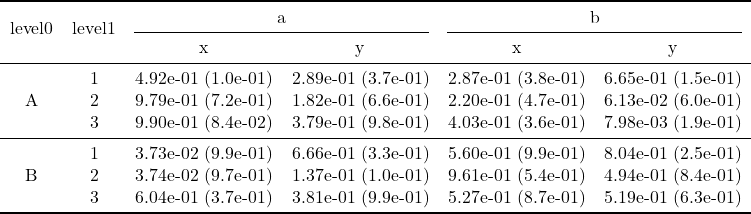
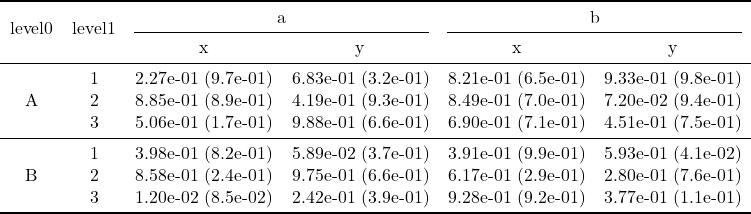
build based on 4c8c40d

diff --git a/dev/index.html b/dev/index.html
@@ -1,2 +1,2 @@
 <!DOCTYPE html>
-<html lang="en"><head><meta charset="UTF-8"/><meta name="viewport" content="width=device-width, initial-scale=1.0"/><title>LaTeXTables.jl Documentation · LaTeXTables.jl Documentation</title><script data-outdated-warner src="assets/warner.js"></script><link href="https://cdnjs.cloudflare.com/ajax/libs/lato-font/3.0.0/css/lato-font.min.css" rel="stylesheet" type="text/css"/><link href="https://cdnjs.cloudflare.com/ajax/libs/juliamono/0.045/juliamono.min.css" rel="stylesheet" type="text/css"/><link href="https://cdnjs.cloudflare.com/ajax/libs/font-awesome/5.15.4/css/fontawesome.min.css" rel="stylesheet" type="text/css"/><link href="https://cdnjs.cloudflare.com/ajax/libs/font-awesome/5.15.4/css/solid.min.css" rel="stylesheet" type="text/css"/><link href="https://cdnjs.cloudflare.com/ajax/libs/font-awesome/5.15.4/css/brands.min.css" rel="stylesheet" type="text/css"/><link href="https://cdnjs.cloudflare.com/ajax/libs/KaTeX/0.13.24/katex.min.css" rel="stylesheet" type="text/css"/><script>documenterBaseURL="."</script><script src="https://cdnjs.cloudflare.com/ajax/libs/require.js/2.3.6/require.min.js" data-main="assets/documenter.js"></script><script src="siteinfo.js"></script><script src="../versions.js"></script><link class="docs-theme-link" rel="stylesheet" type="text/css" href="assets/themes/documenter-dark.css" data-theme-name="documenter-dark" data-theme-primary-dark/><link class="docs-theme-link" rel="stylesheet" type="text/css" href="assets/themes/documenter-light.css" data-theme-name="documenter-light" data-theme-primary/><script src="assets/themeswap.js"></script></head><body><div id="documenter"><nav class="docs-sidebar"><div class="docs-package-name"><span class="docs-autofit"><a href>LaTeXTables.jl Documentation</a></span></div><form class="docs-search" action="search/"><input class="docs-search-query" id="documenter-search-query" name="q" type="text" placeholder="Search docs"/></form><ul class="docs-menu"><li class="is-active"><a class="tocitem" href>LaTeXTables.jl Documentation</a><ul class="internal"><li><a class="tocitem" href="#Related-Packages"><span>Related Packages</span></a></li></ul></li><li><a class="tocitem" href="api/">API</a></li><li><a class="tocitem" href="example/">Examples</a></li></ul><div class="docs-version-selector field has-addons"><div class="control"><span class="docs-label button is-static is-size-7">Version</span></div><div class="docs-selector control is-expanded"><div class="select is-fullwidth is-size-7"><select id="documenter-version-selector"></select></div></div></div></nav><div class="docs-main"><header class="docs-navbar"><nav class="breadcrumb"><ul class="is-hidden-mobile"><li class="is-active"><a href>LaTeXTables.jl Documentation</a></li></ul><ul class="is-hidden-tablet"><li class="is-active"><a href>LaTeXTables.jl Documentation</a></li></ul></nav><div class="docs-right"><a class="docs-edit-link" href="https://github.com/szcf-weiya/LaTeXTables.jl/blob/master/docs/src/index.md" title="Edit on GitHub"><span class="docs-icon fab"></span><span class="docs-label is-hidden-touch">Edit on GitHub</span></a><a class="docs-settings-button fas fa-cog" id="documenter-settings-button" href="#" title="Settings"></a><a class="docs-sidebar-button fa fa-bars is-hidden-desktop" id="documenter-sidebar-button" href="#"></a></div></header><article class="content" id="documenter-page"><h1 id="LaTeXTables.jl-Documentation"><a class="docs-heading-anchor" href="#LaTeXTables.jl-Documentation">LaTeXTables.jl Documentation</a><a id="LaTeXTables.jl-Documentation-1"></a><a class="docs-heading-anchor-permalink" href="#LaTeXTables.jl-Documentation" title="Permalink"></a></h1><p>LaTeXTables.jl is a Julia package that coverts (complex) tables into LaTeX code.</p><h2 id="Related-Packages"><a class="docs-heading-anchor" href="#Related-Packages">Related Packages</a><a id="Related-Packages-1"></a><a class="docs-heading-anchor-permalink" href="#Related-Packages" title="Permalink"></a></h2><ul><li><a href="https://github.com/scheinerman/LatexPrint.jl">https://github.com/scheinerman/LatexPrint.jl</a>: only support basic data structure, such as 1d or 2d arrays</li><li><a href="https://github.com/ronisbr/PrettyTables.jl">https://github.com/ronisbr/PrettyTables.jl</a>: only support simple tables, i.e., one level row and one level column</li></ul></article><nav class="docs-footer"><a class="docs-footer-nextpage" href="api/">API »</a><div class="flexbox-break"></div><p class="footer-message">Powered by <a href="https://github.com/JuliaDocs/Documenter.jl">Documenter.jl</a> and the <a href="https://julialang.org/">Julia Programming Language</a>.</p></nav></div><div class="modal" id="documenter-settings"><div class="modal-background"></div><div class="modal-card"><header class="modal-card-head"><p class="modal-card-title">Settings</p><button class="delete"></button></header><section class="modal-card-body"><p><label class="label">Theme</label><div class="select"><select id="documenter-themepicker"><option value="documenter-light">documenter-light</option><option value="documenter-dark">documenter-dark</option></select></div></p><hr/><p>This document was generated with <a href="https://github.com/JuliaDocs/Documenter.jl">Documenter.jl</a> version 0.27.23 on <span class="colophon-date" title="Thursday 17 November 2022 04:38">Thursday 17 November 2022</span>. Using Julia version 1.7.3.</p></section><footer class="modal-card-foot"></footer></div></div></div></body></html>
+<html lang="en"><head><meta charset="UTF-8"/><meta name="viewport" content="width=device-width, initial-scale=1.0"/><title>LaTeXTables.jl Documentation · LaTeXTables.jl Documentation</title><script data-outdated-warner src="assets/warner.js"></script><link href="https://cdnjs.cloudflare.com/ajax/libs/lato-font/3.0.0/css/lato-font.min.css" rel="stylesheet" type="text/css"/><link href="https://cdnjs.cloudflare.com/ajax/libs/juliamono/0.045/juliamono.min.css" rel="stylesheet" type="text/css"/><link href="https://cdnjs.cloudflare.com/ajax/libs/font-awesome/5.15.4/css/fontawesome.min.css" rel="stylesheet" type="text/css"/><link href="https://cdnjs.cloudflare.com/ajax/libs/font-awesome/5.15.4/css/solid.min.css" rel="stylesheet" type="text/css"/><link href="https://cdnjs.cloudflare.com/ajax/libs/font-awesome/5.15.4/css/brands.min.css" rel="stylesheet" type="text/css"/><link href="https://cdnjs.cloudflare.com/ajax/libs/KaTeX/0.13.24/katex.min.css" rel="stylesheet" type="text/css"/><script>documenterBaseURL="."</script><script src="https://cdnjs.cloudflare.com/ajax/libs/require.js/2.3.6/require.min.js" data-main="assets/documenter.js"></script><script src="siteinfo.js"></script><script src="../versions.js"></script><link class="docs-theme-link" rel="stylesheet" type="text/css" href="assets/themes/documenter-dark.css" data-theme-name="documenter-dark" data-theme-primary-dark/><link class="docs-theme-link" rel="stylesheet" type="text/css" href="assets/themes/documenter-light.css" data-theme-name="documenter-light" data-theme-primary/><script src="assets/themeswap.js"></script></head><body><div id="documenter"><nav class="docs-sidebar"><div class="docs-package-name"><span class="docs-autofit"><a href>LaTeXTables.jl Documentation</a></span></div><form class="docs-search" action="search/"><input class="docs-search-query" id="documenter-search-query" name="q" type="text" placeholder="Search docs"/></form><ul class="docs-menu"><li class="is-active"><a class="tocitem" href>LaTeXTables.jl Documentation</a><ul class="internal"><li><a class="tocitem" href="#Related-Packages"><span>Related Packages</span></a></li></ul></li><li><a class="tocitem" href="api/">API</a></li><li><a class="tocitem" href="example/">Examples</a></li></ul><div class="docs-version-selector field has-addons"><div class="control"><span class="docs-label button is-static is-size-7">Version</span></div><div class="docs-selector control is-expanded"><div class="select is-fullwidth is-size-7"><select id="documenter-version-selector"></select></div></div></div></nav><div class="docs-main"><header class="docs-navbar"><nav class="breadcrumb"><ul class="is-hidden-mobile"><li class="is-active"><a href>LaTeXTables.jl Documentation</a></li></ul><ul class="is-hidden-tablet"><li class="is-active"><a href>LaTeXTables.jl Documentation</a></li></ul></nav><div class="docs-right"><a class="docs-edit-link" href="https://github.com/szcf-weiya/LaTeXTables.jl/blob/master/docs/src/index.md" title="Edit on GitHub"><span class="docs-icon fab"></span><span class="docs-label is-hidden-touch">Edit on GitHub</span></a><a class="docs-settings-button fas fa-cog" id="documenter-settings-button" href="#" title="Settings"></a><a class="docs-sidebar-button fa fa-bars is-hidden-desktop" id="documenter-sidebar-button" href="#"></a></div></header><article class="content" id="documenter-page"><h1 id="LaTeXTables.jl-Documentation"><a class="docs-heading-anchor" href="#LaTeXTables.jl-Documentation">LaTeXTables.jl Documentation</a><a id="LaTeXTables.jl-Documentation-1"></a><a class="docs-heading-anchor-permalink" href="#LaTeXTables.jl-Documentation" title="Permalink"></a></h1><p>LaTeXTables.jl is a Julia package that coverts (complex) tables into LaTeX code.</p><h2 id="Related-Packages"><a class="docs-heading-anchor" href="#Related-Packages">Related Packages</a><a id="Related-Packages-1"></a><a class="docs-heading-anchor-permalink" href="#Related-Packages" title="Permalink"></a></h2><ul><li><a href="https://github.com/scheinerman/LatexPrint.jl">https://github.com/scheinerman/LatexPrint.jl</a>: only support basic data structure, such as 1d or 2d arrays</li><li><a href="https://github.com/ronisbr/PrettyTables.jl">https://github.com/ronisbr/PrettyTables.jl</a>: only support simple tables, i.e., one level row and one level column</li></ul></article><nav class="docs-footer"><a class="docs-footer-nextpage" href="api/">API »</a><div class="flexbox-break"></div><p class="footer-message">Powered by <a href="https://github.com/JuliaDocs/Documenter.jl">Documenter.jl</a> and the <a href="https://julialang.org/">Julia Programming Language</a>.</p></nav></div><div class="modal" id="documenter-settings"><div class="modal-background"></div><div class="modal-card"><header class="modal-card-head"><p class="modal-card-title">Settings</p><button class="delete"></button></header><section class="modal-card-body"><p><label class="label">Theme</label><div class="select"><select id="documenter-themepicker"><option value="documenter-light">documenter-light</option><option value="documenter-dark">documenter-dark</option></select></div></p><hr/><p>This document was generated with <a href="https://github.com/JuliaDocs/Documenter.jl">Documenter.jl</a> version 0.27.23 on <span class="colophon-date" title="Wednesday 4 January 2023 01:50">Wednesday 4 January 2023</span>. Using Julia version 1.7.3.</p></section><footer class="modal-card-foot"></footer></div></div></div></body></html>

diff --git a/dev/search/index.html b/dev/search/index.html
@@ -1,2 +1,2 @@
 <!DOCTYPE html>
-<html lang="en"><head><meta charset="UTF-8"/><meta name="viewport" content="width=device-width, initial-scale=1.0"/><title>Search · LaTeXTables.jl Documentation</title><script data-outdated-warner src="../assets/warner.js"></script><link href="https://cdnjs.cloudflare.com/ajax/libs/lato-font/3.0.0/css/lato-font.min.css" rel="stylesheet" type="text/css"/><link href="https://cdnjs.cloudflare.com/ajax/libs/juliamono/0.045/juliamono.min.css" rel="stylesheet" type="text/css"/><link href="https://cdnjs.cloudflare.com/ajax/libs/font-awesome/5.15.4/css/fontawesome.min.css" rel="stylesheet" type="text/css"/><link href="https://cdnjs.cloudflare.com/ajax/libs/font-awesome/5.15.4/css/solid.min.css" rel="stylesheet" type="text/css"/><link href="https://cdnjs.cloudflare.com/ajax/libs/font-awesome/5.15.4/css/brands.min.css" rel="stylesheet" type="text/css"/><link href="https://cdnjs.cloudflare.com/ajax/libs/KaTeX/0.13.24/katex.min.css" rel="stylesheet" type="text/css"/><script>documenterBaseURL=".."</script><script src="https://cdnjs.cloudflare.com/ajax/libs/require.js/2.3.6/require.min.js" data-main="../assets/documenter.js"></script><script src="../siteinfo.js"></script><script src="../../versions.js"></script><link class="docs-theme-link" rel="stylesheet" type="text/css" href="../assets/themes/documenter-dark.css" data-theme-name="documenter-dark" data-theme-primary-dark/><link class="docs-theme-link" rel="stylesheet" type="text/css" href="../assets/themes/documenter-light.css" data-theme-name="documenter-light" data-theme-primary/><script src="../assets/themeswap.js"></script></head><body><div id="documenter"><nav class="docs-sidebar"><div class="docs-package-name"><span class="docs-autofit"><a href="../">LaTeXTables.jl Documentation</a></span></div><form class="docs-search" action><input class="docs-search-query" id="documenter-search-query" name="q" type="text" placeholder="Search docs"/></form><ul class="docs-menu"><li><a class="tocitem" href="../">LaTeXTables.jl Documentation</a></li><li><a class="tocitem" href="../api/">API</a></li><li><a class="tocitem" href="../example/">Examples</a></li></ul><div class="docs-version-selector field has-addons"><div class="control"><span class="docs-label button is-static is-size-7">Version</span></div><div class="docs-selector control is-expanded"><div class="select is-fullwidth is-size-7"><select id="documenter-version-selector"></select></div></div></div></nav><div class="docs-main"><header class="docs-navbar"><nav class="breadcrumb"><ul class="is-hidden-mobile"><li class="is-active"><a href>Search</a></li></ul><ul class="is-hidden-tablet"><li class="is-active"><a href>Search</a></li></ul></nav><div class="docs-right"><a class="docs-settings-button fas fa-cog" id="documenter-settings-button" href="#" title="Settings"></a><a class="docs-sidebar-button fa fa-bars is-hidden-desktop" id="documenter-sidebar-button" href="#"></a></div></header><article><p id="documenter-search-info">Loading search...</p><ul id="documenter-search-results"></ul></article><nav class="docs-footer"><p class="footer-message">Powered by <a href="https://github.com/JuliaDocs/Documenter.jl">Documenter.jl</a> and the <a href="https://julialang.org/">Julia Programming Language</a>.</p></nav></div><div class="modal" id="documenter-settings"><div class="modal-background"></div><div class="modal-card"><header class="modal-card-head"><p class="modal-card-title">Settings</p><button class="delete"></button></header><section class="modal-card-body"><p><label class="label">Theme</label><div class="select"><select id="documenter-themepicker"><option value="documenter-light">documenter-light</option><option value="documenter-dark">documenter-dark</option></select></div></p><hr/><p>This document was generated with <a href="https://github.com/JuliaDocs/Documenter.jl">Documenter.jl</a> version 0.27.23 on <span class="colophon-date" title="Thursday 17 November 2022 04:38">Thursday 17 November 2022</span>. Using Julia version 1.7.3.</p></section><footer class="modal-card-foot"></footer></div></div></div></body><script src="../search_index.js"></script><script src="../assets/search.js"></script></html>
+<html lang="en"><head><meta charset="UTF-8"/><meta name="viewport" content="width=device-width, initial-scale=1.0"/><title>Search · LaTeXTables.jl Documentation</title><script data-outdated-warner src="../assets/warner.js"></script><link href="https://cdnjs.cloudflare.com/ajax/libs/lato-font/3.0.0/css/lato-font.min.css" rel="stylesheet" type="text/css"/><link href="https://cdnjs.cloudflare.com/ajax/libs/juliamono/0.045/juliamono.min.css" rel="stylesheet" type="text/css"/><link href="https://cdnjs.cloudflare.com/ajax/libs/font-awesome/5.15.4/css/fontawesome.min.css" rel="stylesheet" type="text/css"/><link href="https://cdnjs.cloudflare.com/ajax/libs/font-awesome/5.15.4/css/solid.min.css" rel="stylesheet" type="text/css"/><link href="https://cdnjs.cloudflare.com/ajax/libs/font-awesome/5.15.4/css/brands.min.css" rel="stylesheet" type="text/css"/><link href="https://cdnjs.cloudflare.com/ajax/libs/KaTeX/0.13.24/katex.min.css" rel="stylesheet" type="text/css"/><script>documenterBaseURL=".."</script><script src="https://cdnjs.cloudflare.com/ajax/libs/require.js/2.3.6/require.min.js" data-main="../assets/documenter.js"></script><script src="../siteinfo.js"></script><script src="../../versions.js"></script><link class="docs-theme-link" rel="stylesheet" type="text/css" href="../assets/themes/documenter-dark.css" data-theme-name="documenter-dark" data-theme-primary-dark/><link class="docs-theme-link" rel="stylesheet" type="text/css" href="../assets/themes/documenter-light.css" data-theme-name="documenter-light" data-theme-primary/><script src="../assets/themeswap.js"></script></head><body><div id="documenter"><nav class="docs-sidebar"><div class="docs-package-name"><span class="docs-autofit"><a href="../">LaTeXTables.jl Documentation</a></span></div><form class="docs-search" action><input class="docs-search-query" id="documenter-search-query" name="q" type="text" placeholder="Search docs"/></form><ul class="docs-menu"><li><a class="tocitem" href="../">LaTeXTables.jl Documentation</a></li><li><a class="tocitem" href="../api/">API</a></li><li><a class="tocitem" href="../example/">Examples</a></li></ul><div class="docs-version-selector field has-addons"><div class="control"><span class="docs-label button is-static is-size-7">Version</span></div><div class="docs-selector control is-expanded"><div class="select is-fullwidth is-size-7"><select id="documenter-version-selector"></select></div></div></div></nav><div class="docs-main"><header class="docs-navbar"><nav class="breadcrumb"><ul class="is-hidden-mobile"><li class="is-active"><a href>Search</a></li></ul><ul class="is-hidden-tablet"><li class="is-active"><a href>Search</a></li></ul></nav><div class="docs-right"><a class="docs-settings-button fas fa-cog" id="documenter-settings-button" href="#" title="Settings"></a><a class="docs-sidebar-button fa fa-bars is-hidden-desktop" id="documenter-sidebar-button" href="#"></a></div></header><article><p id="documenter-search-info">Loading search...</p><ul id="documenter-search-results"></ul></article><nav class="docs-footer"><p class="footer-message">Powered by <a href="https://github.com/JuliaDocs/Documenter.jl">Documenter.jl</a> and the <a href="https://julialang.org/">Julia Programming Language</a>.</p></nav></div><div class="modal" id="documenter-settings"><div class="modal-background"></div><div class="modal-card"><header class="modal-card-head"><p class="modal-card-title">Settings</p><button class="delete"></button></header><section class="modal-card-body"><p><label class="label">Theme</label><div class="select"><select id="documenter-themepicker"><option value="documenter-light">documenter-light</option><option value="documenter-dark">documenter-dark</option></select></div></p><hr/><p>This document was generated with <a href="https://github.com/JuliaDocs/Documenter.jl">Documenter.jl</a> version 0.27.23 on <span class="colophon-date" title="Wednesday 4 January 2023 01:50">Wednesday 4 January 2023</span>. Using Julia version 1.7.3.</p></section><footer class="modal-card-foot"></footer></div></div></div></body><script src="../search_index.js"></script><script src="../assets/search.js"></script></html>

diff --git a/dev/api/index.html b/dev/api/index.html
@@ -13,4 +13,4 @@ julia&gt; print2tex(μ, σ, [&quot;A&quot;, &quot;B&quot;], [&quot;a&quot;, &quo
 noc = 0
 14
 
-julia&gt; tex2png(&quot;ex1.tex&quot;)</code></pre></div><a class="docs-sourcelink" target="_blank" href="https://github.com/szcf-weiya/LaTeXTables.jl/blob/b4de2d76e5f653b8c2d5293a4df1a3e4f452dacc/src/tab2tex.jl#L7-L33">source</a></section></article><article class="docstring"><header><a class="docstring-binding" id="LaTeXTables.tex2png" href="#LaTeXTables.tex2png"><code>LaTeXTables.tex2png</code></a> — <span class="docstring-category">Function</span></header><section><div><pre><code class="language-julia hljs">tex2png()</code></pre><p>Render a latex table source file into an image via https://quicklatex.com/js/quicklatex.js</p></div><a class="docs-sourcelink" target="_blank" href="https://github.com/szcf-weiya/LaTeXTables.jl/blob/b4de2d76e5f653b8c2d5293a4df1a3e4f452dacc/src/render.jl#L2-L6">source</a></section></article></article><nav class="docs-footer"><a class="docs-footer-prevpage" href="../">« LaTeXTables.jl Documentation</a><a class="docs-footer-nextpage" href="../example/">Examples »</a><div class="flexbox-break"></div><p class="footer-message">Powered by <a href="https://github.com/JuliaDocs/Documenter.jl">Documenter.jl</a> and the <a href="https://julialang.org/">Julia Programming Language</a>.</p></nav></div><div class="modal" id="documenter-settings"><div class="modal-background"></div><div class="modal-card"><header class="modal-card-head"><p class="modal-card-title">Settings</p><button class="delete"></button></header><section class="modal-card-body"><p><label class="label">Theme</label><div class="select"><select id="documenter-themepicker"><option value="documenter-light">documenter-light</option><option value="documenter-dark">documenter-dark</option></select></div></p><hr/><p>This document was generated with <a href="https://github.com/JuliaDocs/Documenter.jl">Documenter.jl</a> version 0.27.23 on <span class="colophon-date" title="Thursday 17 November 2022 04:38">Thursday 17 November 2022</span>. Using Julia version 1.7.3.</p></section><footer class="modal-card-foot"></footer></div></div></div></body></html>
+julia&gt; tex2png(&quot;ex1.tex&quot;)</code></pre></div><a class="docs-sourcelink" target="_blank" href="https://github.com/szcf-weiya/LaTeXTables.jl/blob/4c8c40db126879340a94a33ac88cf9c0c38500a8/src/tab2tex.jl#L7-L33">source</a></section></article><article class="docstring"><header><a class="docstring-binding" id="LaTeXTables.tex2png" href="#LaTeXTables.tex2png"><code>LaTeXTables.tex2png</code></a> — <span class="docstring-category">Function</span></header><section><div><pre><code class="language-julia hljs">tex2png()</code></pre><p>Render a latex table source file into an image via https://quicklatex.com/js/quicklatex.js</p></div><a class="docs-sourcelink" target="_blank" href="https://github.com/szcf-weiya/LaTeXTables.jl/blob/4c8c40db126879340a94a33ac88cf9c0c38500a8/src/render.jl#L2-L6">source</a></section></article></article><nav class="docs-footer"><a class="docs-footer-prevpage" href="../">« LaTeXTables.jl Documentation</a><a class="docs-footer-nextpage" href="../example/">Examples »</a><div class="flexbox-break"></div><p class="footer-message">Powered by <a href="https://github.com/JuliaDocs/Documenter.jl">Documenter.jl</a> and the <a href="https://julialang.org/">Julia Programming Language</a>.</p></nav></div><div class="modal" id="documenter-settings"><div class="modal-background"></div><div class="modal-card"><header class="modal-card-head"><p class="modal-card-title">Settings</p><button class="delete"></button></header><section class="modal-card-body"><p><label class="label">Theme</label><div class="select"><select id="documenter-themepicker"><option value="documenter-light">documenter-light</option><option value="documenter-dark">documenter-dark</option></select></div></p><hr/><p>This document was generated with <a href="https://github.com/JuliaDocs/Documenter.jl">Documenter.jl</a> version 0.27.23 on <span class="colophon-date" title="Wednesday 4 January 2023 01:50">Wednesday 4 January 2023</span>. Using Julia version 1.7.3.</p></section><footer class="modal-card-foot"></footer></div></div></div></body></html>

diff --git a/dev/example/index.html b/dev/example/index.html
@@ -29,4 +29,4 @@ others_σ = [rand(3, 1), rand(3, 1)]
 print2tex(μ, σ, [&quot;A&quot;, &quot;B&quot;], [&quot;a&quot;, &quot;b&quot;], [&quot;1&quot;,&quot;2&quot;,&quot;3&quot;], [&quot;x&quot;, &quot;y&quot;], file = &quot;ex2.tex&quot;, other_cols = others, other_col_names = [&quot;other&quot;], other_cols_σ = others_σ)
 tex2png(&quot;ex2.tex&quot;)</code></pre><pre class="documenter-example-output"><code class="nohighlight hljs ansi">&quot;ex2.png&quot;</code></pre><p><img src="../ex2.png" alt/></p><h3 id="Add-columns-on-the-right"><a class="docs-heading-anchor" href="#Add-columns-on-the-right">Add columns on the right</a><a id="Add-columns-on-the-right-1"></a><a class="docs-heading-anchor-permalink" href="#Add-columns-on-the-right" title="Permalink"></a></h3><pre><code class="language-julia hljs">right = [[rand(3), rand(3)]]
 print2tex(μ, σ, [&quot;A&quot;, &quot;B&quot;], [&quot;a&quot;, &quot;b&quot;], [&quot;1&quot;,&quot;2&quot;,&quot;3&quot;], [&quot;x&quot;, &quot;y&quot;], file = &quot;ex3.tex&quot;, other_cols = others, other_col_names = [&quot;other&quot;], other_cols_σ = others_σ, right_cols = right, right_col_names = [&quot;right&quot;])
-tex2png(&quot;ex3.tex&quot;)</code></pre><pre class="documenter-example-output"><code class="nohighlight hljs ansi">&quot;ex3.png&quot;</code></pre><p><img src="../ex3.png" alt/></p></article><nav class="docs-footer"><a class="docs-footer-prevpage" href="../api/">« API</a><div class="flexbox-break"></div><p class="footer-message">Powered by <a href="https://github.com/JuliaDocs/Documenter.jl">Documenter.jl</a> and the <a href="https://julialang.org/">Julia Programming Language</a>.</p></nav></div><div class="modal" id="documenter-settings"><div class="modal-background"></div><div class="modal-card"><header class="modal-card-head"><p class="modal-card-title">Settings</p><button class="delete"></button></header><section class="modal-card-body"><p><label class="label">Theme</label><div class="select"><select id="documenter-themepicker"><option value="documenter-light">documenter-light</option><option value="documenter-dark">documenter-dark</option></select></div></p><hr/><p>This document was generated with <a href="https://github.com/JuliaDocs/Documenter.jl">Documenter.jl</a> version 0.27.23 on <span class="colophon-date" title="Thursday 17 November 2022 04:38">Thursday 17 November 2022</span>. Using Julia version 1.7.3.</p></section><footer class="modal-card-foot"></footer></div></div></div></body></html>
+tex2png(&quot;ex3.tex&quot;)</code></pre><pre class="documenter-example-output"><code class="nohighlight hljs ansi">&quot;ex3.png&quot;</code></pre><p><img src="../ex3.png" alt/></p></article><nav class="docs-footer"><a class="docs-footer-prevpage" href="../api/">« API</a><div class="flexbox-break"></div><p class="footer-message">Powered by <a href="https://github.com/JuliaDocs/Documenter.jl">Documenter.jl</a> and the <a href="https://julialang.org/">Julia Programming Language</a>.</p></nav></div><div class="modal" id="documenter-settings"><div class="modal-background"></div><div class="modal-card"><header class="modal-card-head"><p class="modal-card-title">Settings</p><button class="delete"></button></header><section class="modal-card-body"><p><label class="label">Theme</label><div class="select"><select id="documenter-themepicker"><option value="documenter-light">documenter-light</option><option value="documenter-dark">documenter-dark</option></select></div></p><hr/><p>This document was generated with <a href="https://github.com/JuliaDocs/Documenter.jl">Documenter.jl</a> version 0.27.23 on <span class="colophon-date" title="Wednesday 4 January 2023 01:50">Wednesday 4 January 2023</span>. Using Julia version 1.7.3.</p></section><footer class="modal-card-foot"></footer></div></div></div></body></html>

diff --git a/dev/ex3.tex b/dev/ex3.tex
@@ -5,12 +5,12 @@
 \cmidrule(lr){6-7}
 &&&x&y&x&y\tabularnewline
 \midrule
-\multirow{3}{*}{A}&1& 7.41e-01 (6.9e-01)& 4.92e-01 (1.0e-01)& 2.89e-01 (3.7e-01)& 2.87e-01 (3.8e-01)& 6.65e-01 (1.5e-01)& 0.8433397566839962\tabularnewline
-&2& 5.05e-01 (3.9e-01)& 9.79e-01 (7.2e-01)& 1.82e-01 (6.6e-01)& 2.20e-01 (4.7e-01)& 6.13e-02 (6.0e-01)& 0.9751596237878961\tabularnewline
-&3& 3.56e-01 (9.9e-01)& 9.90e-01 (8.4e-02)& 3.79e-01 (9.8e-01)& 4.03e-01 (3.6e-01)& 7.98e-03 (1.9e-01)& 0.038202803378047934\tabularnewline
+\multirow{3}{*}{A}&1& 1.75e-01 (2.8e-02)& 2.27e-01 (9.7e-01)& 6.83e-01 (3.2e-01)& 8.21e-01 (6.5e-01)& 9.33e-01 (9.8e-01)& 0.6946419318274506\tabularnewline
+&2& 9.11e-01 (3.0e-01)& 8.85e-01 (8.9e-01)& 4.19e-01 (9.3e-01)& 8.49e-01 (7.0e-01)& 7.20e-02 (9.4e-01)& 0.20869895267998861\tabularnewline
+&3& 5.68e-01 (6.7e-01)& 5.06e-01 (1.7e-01)& 9.88e-01 (6.6e-01)& 6.90e-01 (7.1e-01)& 4.51e-01 (7.5e-01)& 0.3336436422027059\tabularnewline
 \midrule
-\multirow{3}{*}{B}&1& 9.87e-01 (3.9e-01)& 3.73e-02 (9.9e-01)& 6.66e-01 (3.3e-01)& 5.60e-01 (9.9e-01)& 8.04e-01 (2.5e-01)& 0.5459040915339662\tabularnewline
-&2& 5.78e-01 (5.0e-01)& 3.74e-02 (9.7e-01)& 1.37e-01 (1.0e-01)& 9.61e-01 (5.4e-01)& 4.94e-01 (8.4e-01)& 0.8388095063204334\tabularnewline
-&3& 8.01e-01 (9.5e-01)& 6.04e-01 (3.7e-01)& 3.81e-01 (9.9e-01)& 5.27e-01 (8.7e-01)& 5.19e-01 (6.3e-01)& 0.18375792809076952\tabularnewline
+\multirow{3}{*}{B}&1& 1.12e-01 (2.7e-01)& 3.98e-01 (8.2e-01)& 5.89e-02 (3.7e-01)& 3.91e-01 (9.9e-01)& 5.93e-01 (4.1e-02)& 0.4358237809580723\tabularnewline
+&2& 4.23e-01 (4.1e-02)& 8.58e-01 (2.4e-01)& 9.75e-01 (6.6e-01)& 6.17e-01 (2.9e-01)& 2.80e-01 (7.6e-01)& 0.7635743409272554\tabularnewline
+&3& 1.58e-01 (5.5e-01)& 1.20e-02 (8.5e-02)& 2.42e-01 (3.9e-01)& 9.28e-01 (9.2e-01)& 3.77e-01 (1.1e-01)& 0.644743167897045\tabularnewline
 \bottomrule
 \end{tabular}

diff --git a/dev/ex2.tex b/dev/ex2.tex
@@ -5,12 +5,12 @@
 \cmidrule(lr){6-7}
 &&&x&y&x&y\tabularnewline
 \midrule
-\multirow{3}{*}{A}&1& 7.41e-01 (6.9e-01)& 4.92e-01 (1.0e-01)& 2.89e-01 (3.7e-01)& 2.87e-01 (3.8e-01)& 6.65e-01 (1.5e-01)\tabularnewline
-&2& 5.05e-01 (3.9e-01)& 9.79e-01 (7.2e-01)& 1.82e-01 (6.6e-01)& 2.20e-01 (4.7e-01)& 6.13e-02 (6.0e-01)\tabularnewline
-&3& 3.56e-01 (9.9e-01)& 9.90e-01 (8.4e-02)& 3.79e-01 (9.8e-01)& 4.03e-01 (3.6e-01)& 7.98e-03 (1.9e-01)\tabularnewline
+\multirow{3}{*}{A}&1& 1.75e-01 (2.8e-02)& 2.27e-01 (9.7e-01)& 6.83e-01 (3.2e-01)& 8.21e-01 (6.5e-01)& 9.33e-01 (9.8e-01)\tabularnewline
+&2& 9.11e-01 (3.0e-01)& 8.85e-01 (8.9e-01)& 4.19e-01 (9.3e-01)& 8.49e-01 (7.0e-01)& 7.20e-02 (9.4e-01)\tabularnewline
+&3& 5.68e-01 (6.7e-01)& 5.06e-01 (1.7e-01)& 9.88e-01 (6.6e-01)& 6.90e-01 (7.1e-01)& 4.51e-01 (7.5e-01)\tabularnewline
 \midrule
-\multirow{3}{*}{B}&1& 9.87e-01 (3.9e-01)& 3.73e-02 (9.9e-01)& 6.66e-01 (3.3e-01)& 5.60e-01 (9.9e-01)& 8.04e-01 (2.5e-01)\tabularnewline
-&2& 5.78e-01 (5.0e-01)& 3.74e-02 (9.7e-01)& 1.37e-01 (1.0e-01)& 9.61e-01 (5.4e-01)& 4.94e-01 (8.4e-01)\tabularnewline
-&3& 8.01e-01 (9.5e-01)& 6.04e-01 (3.7e-01)& 3.81e-01 (9.9e-01)& 5.27e-01 (8.7e-01)& 5.19e-01 (6.3e-01)\tabularnewline
+\multirow{3}{*}{B}&1& 1.12e-01 (2.7e-01)& 3.98e-01 (8.2e-01)& 5.89e-02 (3.7e-01)& 3.91e-01 (9.9e-01)& 5.93e-01 (4.1e-02)\tabularnewline
+&2& 4.23e-01 (4.1e-02)& 8.58e-01 (2.4e-01)& 9.75e-01 (6.6e-01)& 6.17e-01 (2.9e-01)& 2.80e-01 (7.6e-01)\tabularnewline
+&3& 1.58e-01 (5.5e-01)& 1.20e-02 (8.5e-02)& 2.42e-01 (3.9e-01)& 9.28e-01 (9.2e-01)& 3.77e-01 (1.1e-01)\tabularnewline
 \bottomrule
 \end{tabular}

diff --git a/dev/ex1.tex b/dev/ex1.tex
@@ -5,12 +5,12 @@
 \cmidrule(lr){5-6}
 &&x&y&x&y\tabularnewline
 \midrule
-\multirow{3}{*}{A}&1& 4.92e-01 (1.0e-01)& 2.89e-01 (3.7e-01)& 2.87e-01 (3.8e-01)& 6.65e-01 (1.5e-01)\tabularnewline
-&2& 9.79e-01 (7.2e-01)& 1.82e-01 (6.6e-01)& 2.20e-01 (4.7e-01)& 6.13e-02 (6.0e-01)\tabularnewline
-&3& 9.90e-01 (8.4e-02)& 3.79e-01 (9.8e-01)& 4.03e-01 (3.6e-01)& 7.98e-03 (1.9e-01)\tabularnewline
+\multirow{3}{*}{A}&1& 2.27e-01 (9.7e-01)& 6.83e-01 (3.2e-01)& 8.21e-01 (6.5e-01)& 9.33e-01 (9.8e-01)\tabularnewline
+&2& 8.85e-01 (8.9e-01)& 4.19e-01 (9.3e-01)& 8.49e-01 (7.0e-01)& 7.20e-02 (9.4e-01)\tabularnewline
+&3& 5.06e-01 (1.7e-01)& 9.88e-01 (6.6e-01)& 6.90e-01 (7.1e-01)& 4.51e-01 (7.5e-01)\tabularnewline
 \midrule
-\multirow{3}{*}{B}&1& 3.73e-02 (9.9e-01)& 6.66e-01 (3.3e-01)& 5.60e-01 (9.9e-01)& 8.04e-01 (2.5e-01)\tabularnewline
-&2& 3.74e-02 (9.7e-01)& 1.37e-01 (1.0e-01)& 9.61e-01 (5.4e-01)& 4.94e-01 (8.4e-01)\tabularnewline
-&3& 6.04e-01 (3.7e-01)& 3.81e-01 (9.9e-01)& 5.27e-01 (8.7e-01)& 5.19e-01 (6.3e-01)\tabularnewline
+\multirow{3}{*}{B}&1& 3.98e-01 (8.2e-01)& 5.89e-02 (3.7e-01)& 3.91e-01 (9.9e-01)& 5.93e-01 (4.1e-02)\tabularnewline
+&2& 8.58e-01 (2.4e-01)& 9.75e-01 (6.6e-01)& 6.17e-01 (2.9e-01)& 2.80e-01 (7.6e-01)\tabularnewline
+&3& 1.20e-02 (8.5e-02)& 2.42e-01 (3.9e-01)& 9.28e-01 (9.2e-01)& 3.77e-01 (1.1e-01)\tabularnewline
 \bottomrule
 \end{tabular}

diff --git a/dev/row2col2.tex b/dev/row2col2.tex
@@ -6,10 +6,10 @@
 &&c1&c2&c3&c1&c2&c3\tabularnewline
 \midrule
 \midrule
-\multirow{2}{*}{r01}&r1&1.04e+00& (-1.74e+00, 2.80e-01)& (-1.57e-01, 1.20e+00)&1.04e+00& (-1.74e+00, 2.80e-01)& (-1.57e-01, 1.20e+00)\tabularnewline
-&r2&-1.12e+00& (-6.34e-01, 9.48e-01)& (-2.37e-01, 5.82e-01)&-1.12e+00& (-6.34e-01, 9.48e-01)& (-2.37e-01, 5.82e-01)\tabularnewline
+\multirow{2}{*}{r01}&r1&6.47e-01& (1.39e+00, -4.36e-01)& (-3.09e-02, 1.72e+00)&6.47e-01& (1.39e+00, -4.36e-01)& (-3.09e-02, 1.72e+00)\tabularnewline
+&r2&2.00e+00& (-1.78e-01, 7.50e-01)& (1.65e-01, 1.16e-02)&2.00e+00& (-1.78e-01, 7.50e-01)& (1.65e-01, 1.16e-02)\tabularnewline
 \midrule
-\multirow{2}{*}{r02}&r1&1.04e+00& (-1.74e+00, 2.80e-01)& (-1.57e-01, 1.20e+00)&1.04e+00& (-1.74e+00, 2.80e-01)& (-1.57e-01, 1.20e+00)\tabularnewline
-&r2&-1.12e+00& (-6.34e-01, 9.48e-01)& (-2.37e-01, 5.82e-01)&-1.12e+00& (-6.34e-01, 9.48e-01)& (-2.37e-01, 5.82e-01)\tabularnewline
+\multirow{2}{*}{r02}&r1&6.47e-01& (1.39e+00, -4.36e-01)& (-3.09e-02, 1.72e+00)&6.47e-01& (1.39e+00, -4.36e-01)& (-3.09e-02, 1.72e+00)\tabularnewline
+&r2&2.00e+00& (-1.78e-01, 7.50e-01)& (1.65e-01, 1.16e-02)&2.00e+00& (-1.78e-01, 7.50e-01)& (1.65e-01, 1.16e-02)\tabularnewline
 \bottomrule
 \end{tabular}

diff --git a/dev/ex02.tex b/dev/ex02.tex
@@ -2,12 +2,12 @@
 \toprule
 row&col1&col2&col3\tabularnewline
 \midrule
-A&-1.61e+00& (1.86e+00, 1.38e+00)& (-5.82e-01, 1.03e+00)\tabularnewline
-B&-7.12e-01& (-1.45e-01, 3.70e-01)& (-1.38e+00, 1.69e+00)\tabularnewline
+A&3.58e-01& (1.21e+00, -1.14e+00)& (-1.05e+00, -5.09e-01)\tabularnewline
+B&1.35e-01& (3.21e-01, -1.05e+00)& (5.85e-01, -2.34e-01)\tabularnewline
 \midrule
 &COL1&col2&col3\tabularnewline
 \midrule
-A&-1.61e+00& (1.86e+00, 1.38e+00)& (-5.82e-01, 1.03e+00)\tabularnewline
-B&-7.12e-01& (-1.45e-01, 3.70e-01)& (-1.38e+00, 1.69e+00)\tabularnewline
+A&3.58e-01& (1.21e+00, -1.14e+00)& (-1.05e+00, -5.09e-01)\tabularnewline
+B&1.35e-01& (3.21e-01, -1.05e+00)& (5.85e-01, -2.34e-01)\tabularnewline
 \bottomrule
 \end{tabular}

diff --git a/dev/col2.tex b/dev/col2.tex
@@ -5,7 +5,7 @@
 \cmidrule(lr){5-7}
 &c1&c2&c3&c1&c2&c3\tabularnewline
 \midrule
-r1&7.91e-01& (1.56e+00, 6.37e-01)& (1.06e+00, -1.57e-01)&7.91e-01& (1.56e+00, 6.37e-01)& (1.06e+00, -1.57e-01)\tabularnewline
-r2&-1.25e-01& (-4.41e-02, -2.04e-01)& (-9.17e-01, -6.38e-03)&-1.25e-01& (-4.41e-02, -2.04e-01)& (-9.17e-01, -6.38e-03)\tabularnewline
+r1&1.41e+00& (-2.25e-02, -2.28e-01)& (-9.19e-01, -9.02e-01)&1.41e+00& (-2.25e-02, -2.28e-01)& (-9.19e-01, -9.02e-01)\tabularnewline
+r2&3.39e-02& (-1.01e+00, 5.12e-01)& (3.39e-01, -8.19e-02)&3.39e-02& (-1.01e+00, 5.12e-01)& (3.39e-01, -8.19e-02)\tabularnewline
 \bottomrule
 \end{tabular}

diff --git a/dev/ex01.tex b/dev/ex01.tex
@@ -2,7 +2,7 @@
 \toprule
 row&col1&col2&col3\tabularnewline
 \midrule
-A&-8.66e-01& (-1.50e-02, -1.25e-01)& (5.23e-01, 2.38e+00)\tabularnewline
-B&-5.62e-01& (1.06e+00, -3.78e-01)& (3.93e-01, 1.43e-01)\tabularnewline
+A&1.17e+00& (-3.35e-01, 9.84e-01)& (1.45e-01, -1.37e+00)\tabularnewline
+B&-4.48e-01& (9.93e-02, 6.59e-01)& (1.83e-01, -1.06e+00)\tabularnewline
 \bottomrule
 \end{tabular}

diff --git a/dev/ex0.tex b/dev/ex0.tex
@@ -2,7 +2,7 @@
 \toprule
 row&col1&col2&col3\tabularnewline
 \midrule
-A&1.78e-01&8.51e-01&2.60e-01\tabularnewline
-B&4.42e-01&5.52e-01&6.95e-01\tabularnewline
+A&7.90e-01&6.06e-01&9.20e-01\tabularnewline
+B&7.28e-01&2.41e-01&3.99e-01\tabularnewline
 \bottomrule
 \end{tabular}
